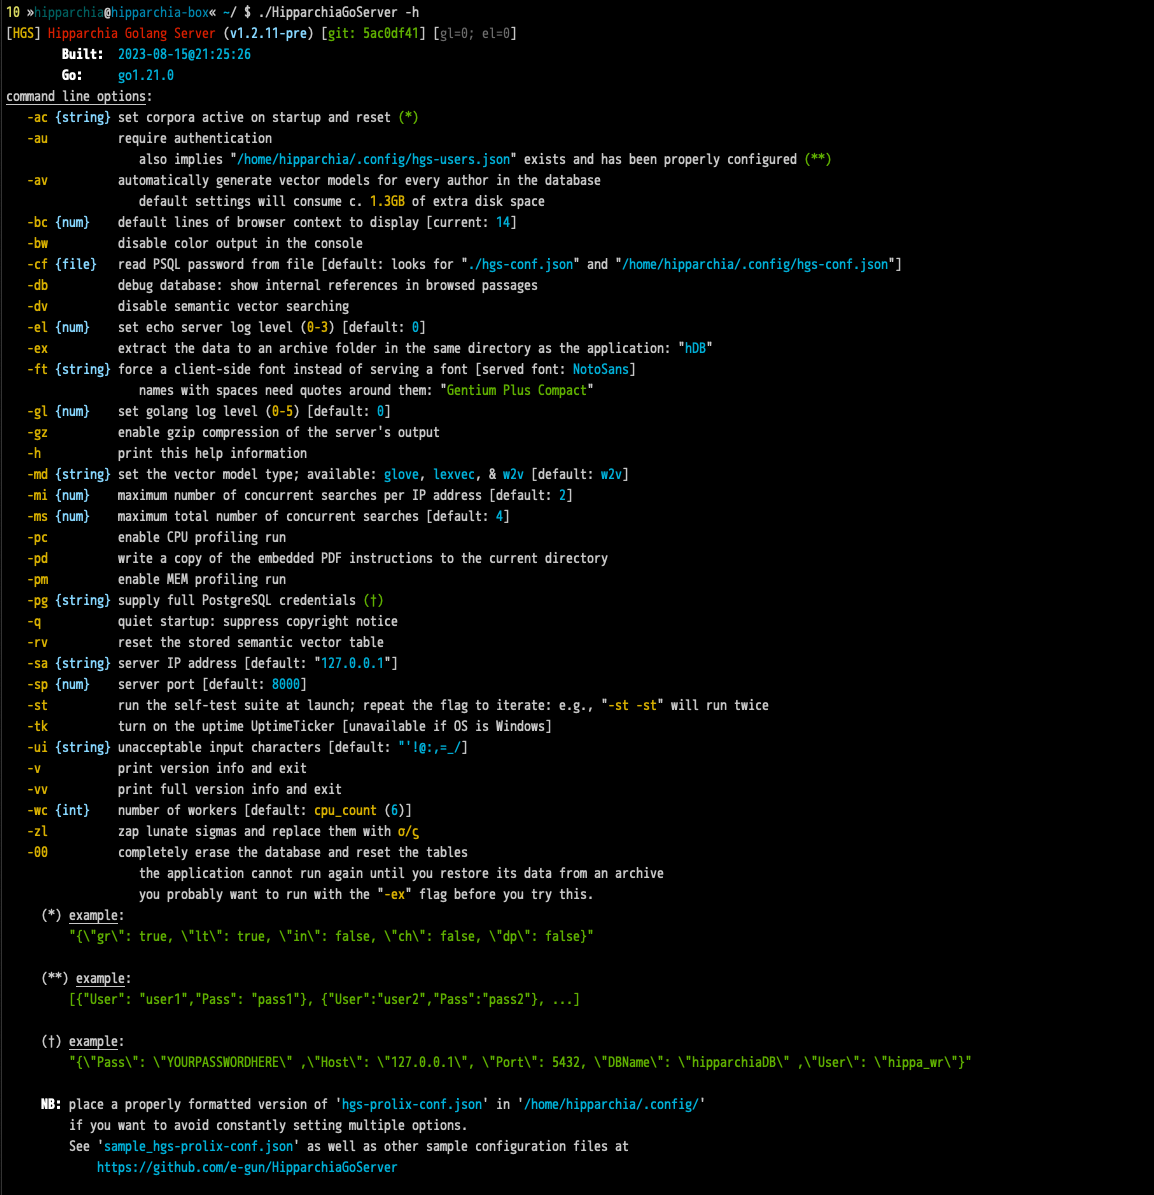
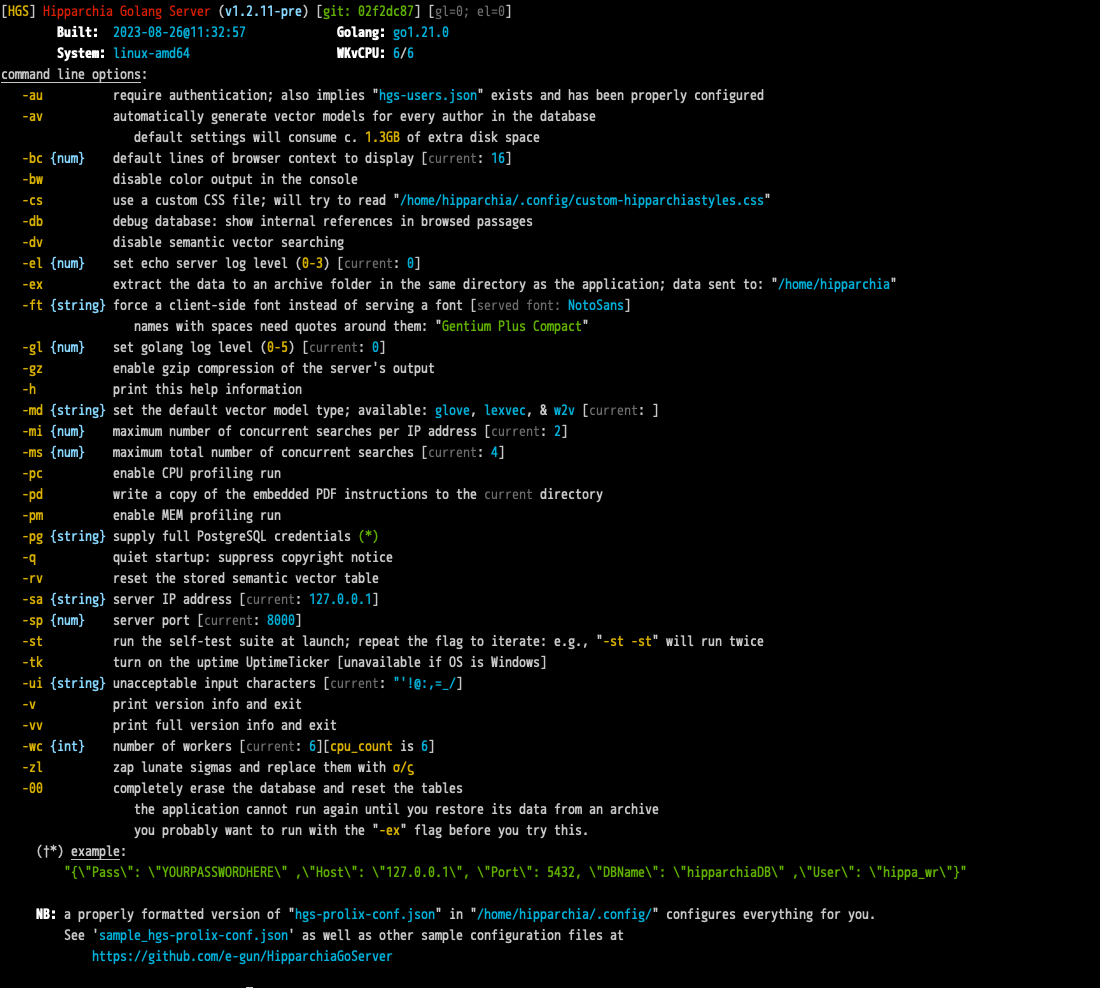
get rit of "-ac" flag

Changed region(s): [[0.0, 0.0, 0.8655, 1.0], [0.5564, 0.6377, 0.68, 0.668], [0.5564, 0.5769, 0.68, 0.6073]]

diff --git a/constants.go b/constants.go
@@ -130,9 +130,7 @@ const (
 	PROJURL  = "https://github.com/e-gun/HipparchiaGoServer"
 
 	HELPTEXTTEMPLATE = `S3command line optionsS0:
-   C1-acC0 C2{string}C0 set corpora active on startup and reset C4(*)C0
-   C1-auC0          require authentication 
-                   also implies "C3{{.confauth}}C0" exists and has been properly configured C4(**)C0
+   C1-auC0          require authentication; also implies "C3{{.confauth}}C0" exists and has been properly configured
    C1-avC0          automatically generate vector models for every author in the database
                    default settings will consume c. C11.3GBC0 of extra disk space
    C1-bcC0 C2{num}C0    default lines of browser context to display [C6currentC0: C3{{.ctxlines}}C0]
@@ -142,18 +140,18 @@ const (
    C1-dvC0          disable semantic vector searching
    C1-elC0 C2{num}C0    set echo server log level (C10-3C0) [C6currentC0: C3{{.echoll}}C0]
    C1-exC0          extract the data to an archive folder in the same directory as the application; data sent to: "C3{{.cwd}}C0"
-   C1-ftC0 C2{string}C0 force a client-side font instead of serving a font [served font: C3NotoSansC0]
+   C1-ftC0 C2{string}C0 force a client-side font instead of serving a font [C6served font:C0 C3NotoSansC0]
                    names with spaces need quotes around them: "C4Gentium Plus CompactC0"
    C1-glC0 C2{num}C0    set golang log level (C10-5C0) [C6currentC0: C3{{.hgsll}}C0]
    C1-gzC0          enable gzip compression of the server's output
    C1-hC0           print this help information
    C1-mdC0 C2{string}C0 set the default vector model type; available: C3gloveC0, C3lexvecC0, & C3w2vC0 [C6currentC0: C3{{.vmodel}}C0]
-   C1-miC0 C2{num}C0    maximum number of conC6currentC0 searches per IP address [C6currentC0: C3{{.maxipsrch}}C0]
-   C1-msC0 C2{num}C0    maximum total number of conC6currentC0 searches [C6currentC0: C3{{.maxtotscrh}}C0]
+   C1-miC0 C2{num}C0    maximum number of concurrent searches per IP address [C6currentC0: C3{{.maxipsrch}}C0]
+   C1-msC0 C2{num}C0    maximum total number of concurrent searches [C6currentC0: C3{{.maxtotscrh}}C0]
    C1-pcC0          enable CPU profiling run
    C1-pdC0          write a copy of the embedded PDF instructions to the C6currentC0 directory
    C1-pmC0          enable MEM profiling run
-   C1-pgC0 C2{string}C0 supply full PostgreSQL credentials C4(†)C0
+   C1-pgC0 C2{string}C0 supply full PostgreSQL credentials C4(*)C0
    C1-qC0           quiet startup: suppress copyright notice
    C1-rvC0          reset the stored semantic vector table
    C1-saC0 C2{string}C0 server IP address [C6currentC0: C3{{.host}}C0]
@@ -167,18 +165,11 @@ const (
    C1-zlC0          zap lunate sigmas and replace them with C1σ/ςC0
    C1-00C0          completely erase the database and reset the tables
                    the application cannot run again until you restore its data from an archive 
-                   you probably want to run with the "C1-exC0" flag before you try this. 
-     (*) S3exampleS0: 
-         C4"{\"gr\": true, \"lt\": true, \"in\": false, \"ch\": false, \"dp\": false}"C0
-
-     (**) S3exampleS0:
-         C4[{"User": "user1","Pass": "pass1"}, {"User":"user2","Pass":"pass2"}, ...]C0
-
-     (†) S3exampleS0: 
+                   you probably want to run with the "C1-exC0" flag before you try this.
+     (†*) S3exampleS0: 
          C4"{\"Pass\": \"YOURPASSWORDHERE\" ,\"Host\": \"127.0.0.1\", \"Port\": 5432, \"DBName\": \"hipparchiaDB\" ,\"User\": \"hippa_wr\"}"C0
      
-     S1NB:S0 place a properly formatted version of "C3{{.conffile}}C0" in "C3{{.home}}C0" 
-         if you want to avoid constantly setting multiple options. 
+     S1NB:S0 a properly formatted version of "C3{{.conffile}}C0" in "C3{{.home}}C0" configures everything for you. 
          See 'C3sample_hgs-prolix-conf.jsonC0' as well as other sample configuration files at
              C3{{.projurl}}C0
 `

diff --git a/configatlaunch.go b/configatlaunch.go
@@ -141,6 +141,7 @@ func ConfigAtLaunch() {
 		FAIL5 = "Improperly formatted corpus list. Using:\n\t%s"
 		FAIL6 = "Could not open '%s'"
 		FAIL7 = "ConfigAtLaunch() failed to execute help text template"
+		FAIL8 = "Cannot find current working directory"
 	)
 
 	Config = BuildDefaultConfig()
@@ -182,24 +183,31 @@ func ConfigAtLaunch() {
 	help := func() {
 		printversion()
 		printbuildinfo()
+		cwd, err := os.Getwd()
+		if err != nil {
+			msg(FAIL8, MSGCRIT)
+			cwd = "(unknown)"
+		}
+
 		m := map[string]interface{}{
+			"badchars":   Config.BadChars,
 			"confauth":   CONFIGAUTH,
-			"ctxlines":   Config.BrowserCtx,
 			"conffile":   CONFIGPROLIX,
-			"home":       h,
+			"cpus":       runtime.NumCPU(),
 			"css":        CUSTOMCSSFILENAME,
+			"cwd":        cwd,
+			"ctxlines":   Config.BrowserCtx,
 			"echoll":     Config.EchoLog,
-			"cwd":        HDBFOLDER,
+			"hdbf":       HDBFOLDER,
 			"hgsll":      Config.LogLevel,
-			"vmodel":     Config.VectorModel,
+			"home":       h,
+			"host":       Config.HostIP,
 			"maxipsrch":  Config.MaxSrchIP,
 			"maxtotscrh": Config.MaxSrchTot,
-			"host":       Config.HostIP,
 			"port":       Config.HostPort,
-			"badchars":   Config.BadChars,
-			"workers":    Config.WorkerCount,
-			"cpus":       runtime.NumCPU(),
-			"projurl":    PROJURL}
+			"projurl":    PROJURL,
+			"vmodel":     Config.VectorModel,
+			"workers":    Config.WorkerCount}
 		t := template.Must(template.New("").Parse(HELPTEXTTEMPLATE))
 		var b bytes.Buffer
 		if err := t.Execute(&b, m); err != nil {
@@ -219,11 +227,6 @@ func ConfigAtLaunch() {
 		case "-v":
 			fmt.Println(VERSION + VersSuppl)
 			os.Exit(1)
-		case "-ac":
-			err := json.Unmarshal([]byte(args[i+1]), &Config.DefCorp)
-			if err != nil {
-				msg(fmt.Sprintf(FAIL5, DEFAULTCORPORA), MSGCRIT)
-			}
 		case "-au":
 			Config.Authenticate = true
 		case "-av":
